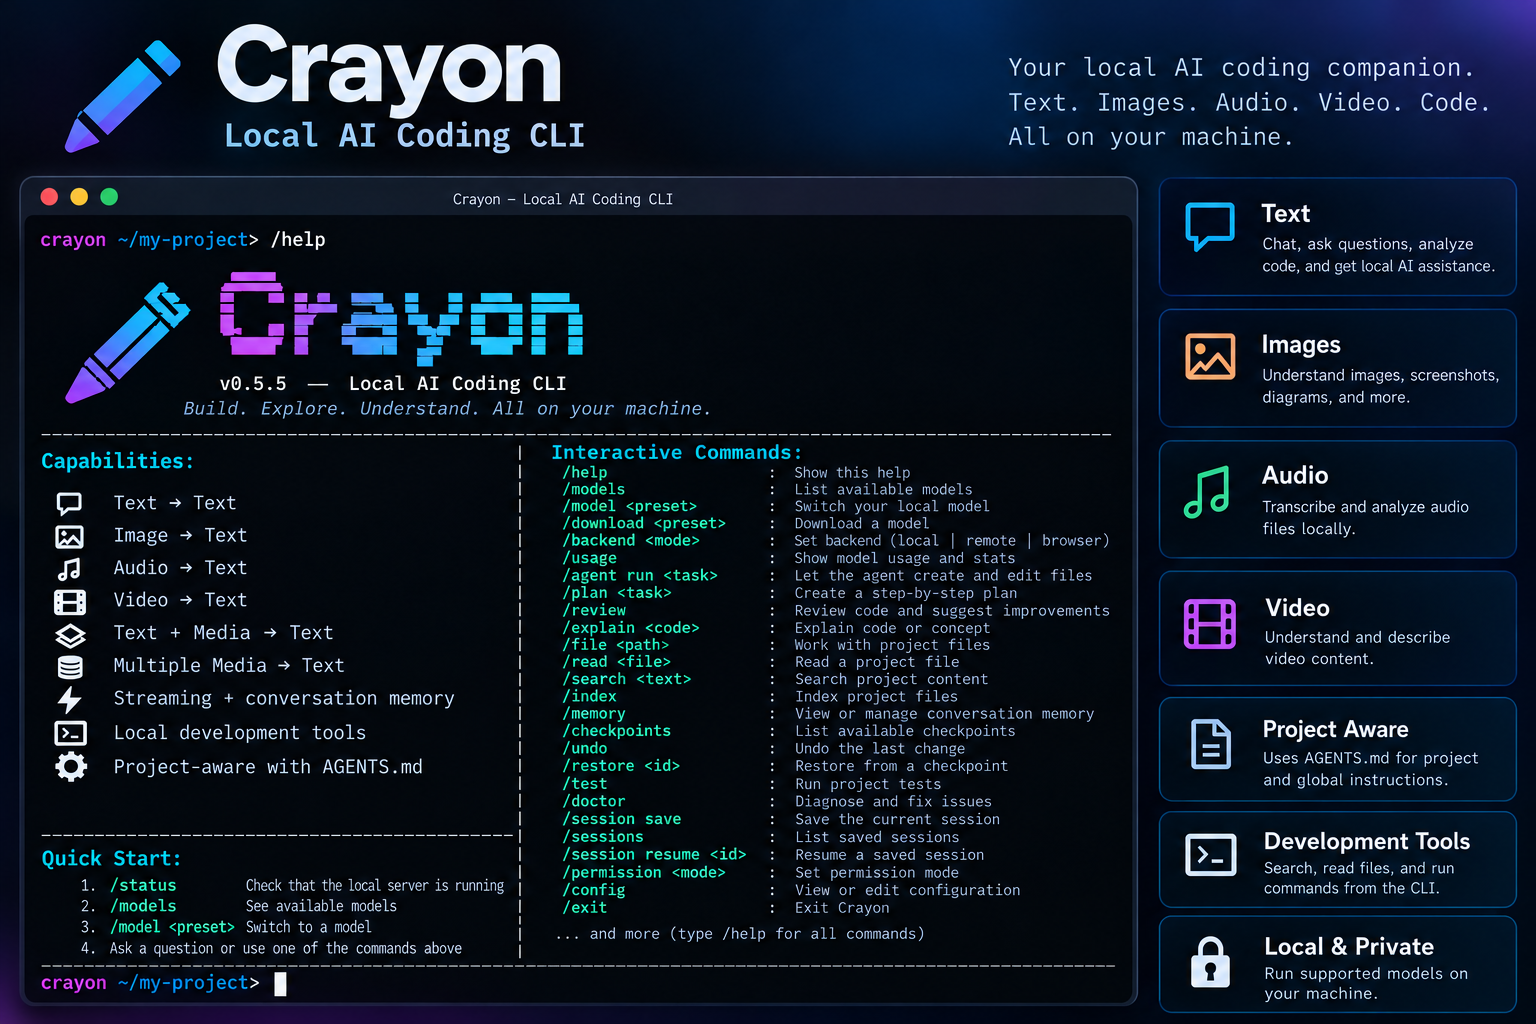
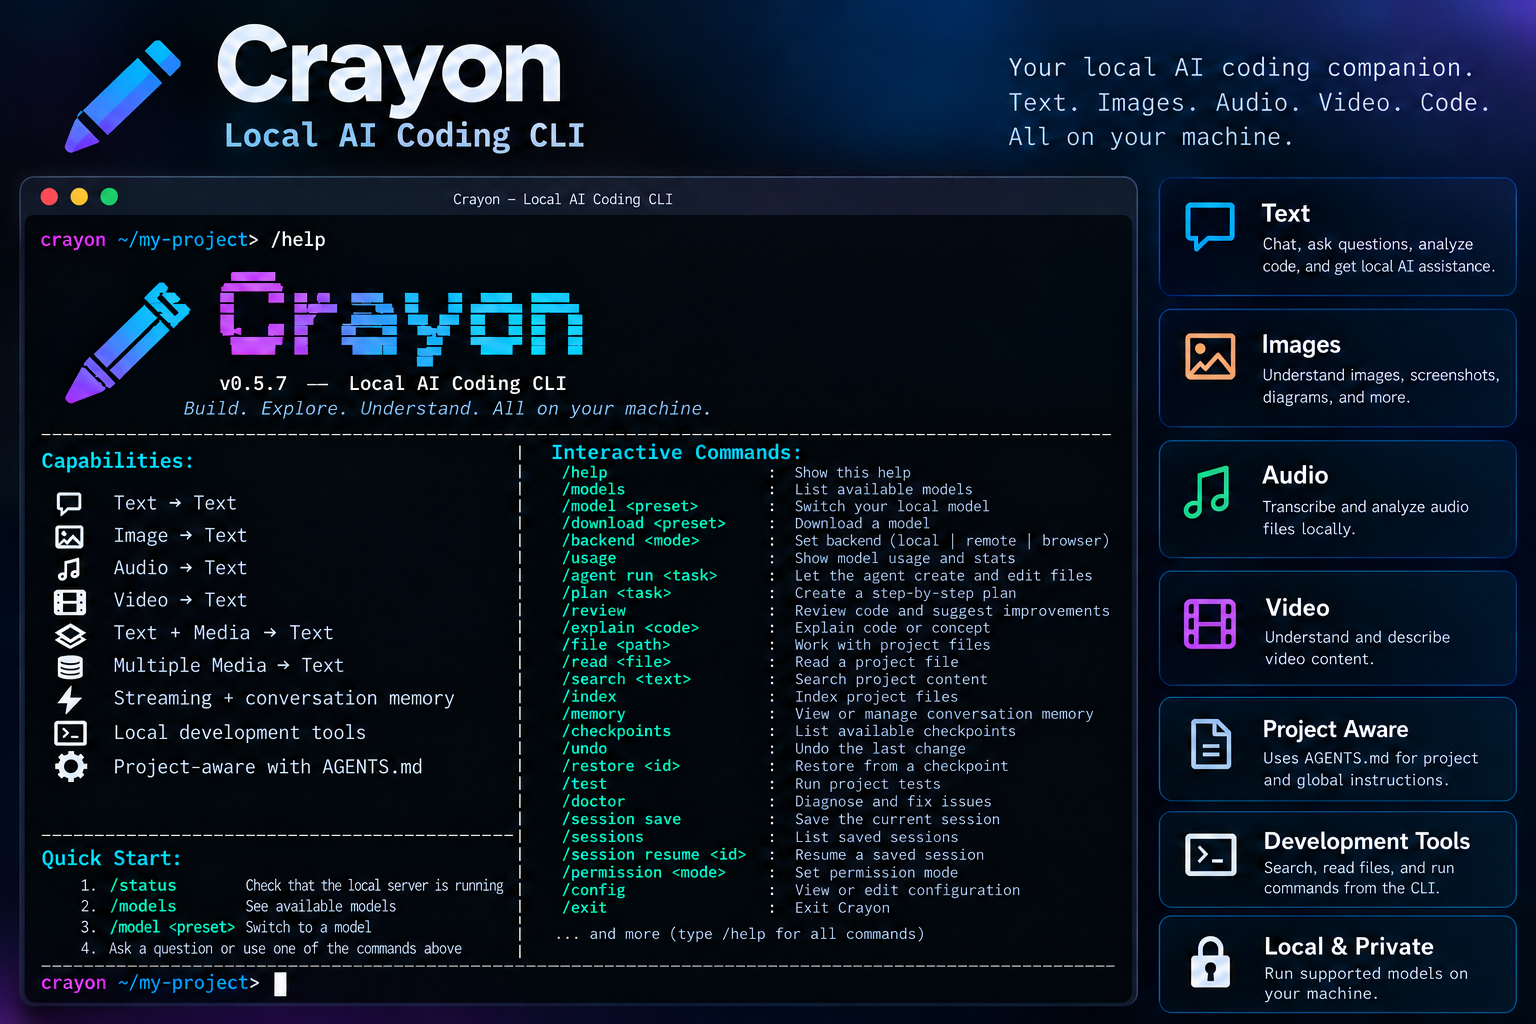
Add files via upload

diff --git a/README.md b/README.md
@@ -1,6 +1,6 @@
 ![Crayon — Local AI Coding CLI](./crayon-cli.png)
 
-# Crayon CLI v0.5.5
+# Crayon CLI v0.5.7
 
 ### Local AI Coding CLI
 
@@ -8,7 +8,7 @@ Crayon is a local-first AI coding CLI designed to bring AI-assisted development 
 
 It combines a TypeScript/Node.js CLI with local AI inference, development tools, streaming responses, multimodal capabilities, project instructions, and local model management.
 
-**Current documented release:** `v0.5.5` — Local Model Presets + Coding-Agent Workflow
+**Current documented release:** `v0.5.7` — Coding-Agent Workflow Improvements and Stabilization
 
 ---
 
@@ -117,7 +117,7 @@ The local backend performs inference on the user's machine. Hugging Face can sup
 
 ---
 
-# 🧠 Model Presets — v0.5.5
+# 🧠 Model Presets — v0.5.7
 
 The local model server defines these presets:
 
@@ -765,6 +765,39 @@ Expanded Crayon's local-first architecture with multiple model presets and a bro
 
 ---
 
+## v0.5.6 — Agent Workflow, Git Tools + Project Intelligence
+
+Expanded the coding-agent workflow and project-level development tools.
+
+### Documented additions
+
+- Improved autonomous agent task execution and task handling.
+- Git-oriented review and rollback workflows.
+- Incremental project indexing improvements.
+- Model management and session recovery improvements.
+- Architecture and impact analysis helpers.
+- Patch review and affected-test workflows.
+- Debugging and error-explanation helpers.
+- Evaluation/reporting support.
+
+Feature availability depends on the exact source build and its configuration. Confirm command syntax with `/help`.
+
+---
+
+## v0.5.7 — Maintenance, Stabilization + Compatibility
+
+Continued work on the v0.5.6 codebase with a focus on maintaining the existing CLI and local inference architecture.
+
+### Release notes
+
+- Retains the TypeScript/Node.js CLI and Python FastAPI inference server architecture described in this README.
+- Retains the local model presets and coding-agent capabilities documented for v0.5.5, subject to the installed build.
+- Treats the v0.5.7 source tree as the baseline for subsequent packaging and Python-CLI migration experiments.
+
+**Important:** The Python-only CLI migration was a separate experimental workstream and should not be interpreted as a completed, feature-parity replacement for the v0.5.7 TypeScript CLI.
+
+---
+
 # 📜 Version Timeline
 
 ```text
@@ -789,6 +822,10 @@ v0.5.3  ── Local Runtime Stabilization
 v0.5.4  ── Expanded Development Commands
    │
 v0.5.5  ── Local Model Presets + Coding-Agent Workflow
+   │
+v0.5.6  ── Agent Workflow, Git Tools + Project Intelligence
+   │
+v0.5.7  ── Maintenance, Stabilization + Compatibility
 ```
 
 ---
@@ -808,6 +845,8 @@ v0.5.5  ── Local Model Presets + Coding-Agent Workflow
 | `v0.5.3` | Local Runtime Stabilization |
 | `v0.5.4` | Expanded Development Commands |
 | `v0.5.5` | Local Model Presets + Coding-Agent Workflow |
+| `v0.5.6` | Agent Workflow, Git Tools + Project Intelligence |
+| `v0.5.7` | Maintenance, Stabilization + Compatibility |
 
 ---
 
@@ -824,5 +863,5 @@ See the `LICENSE` file included with the project.
 ```text
 CRAYON
 Local AI Coding CLI
-v0.5.5
+v0.5.7
 ```
